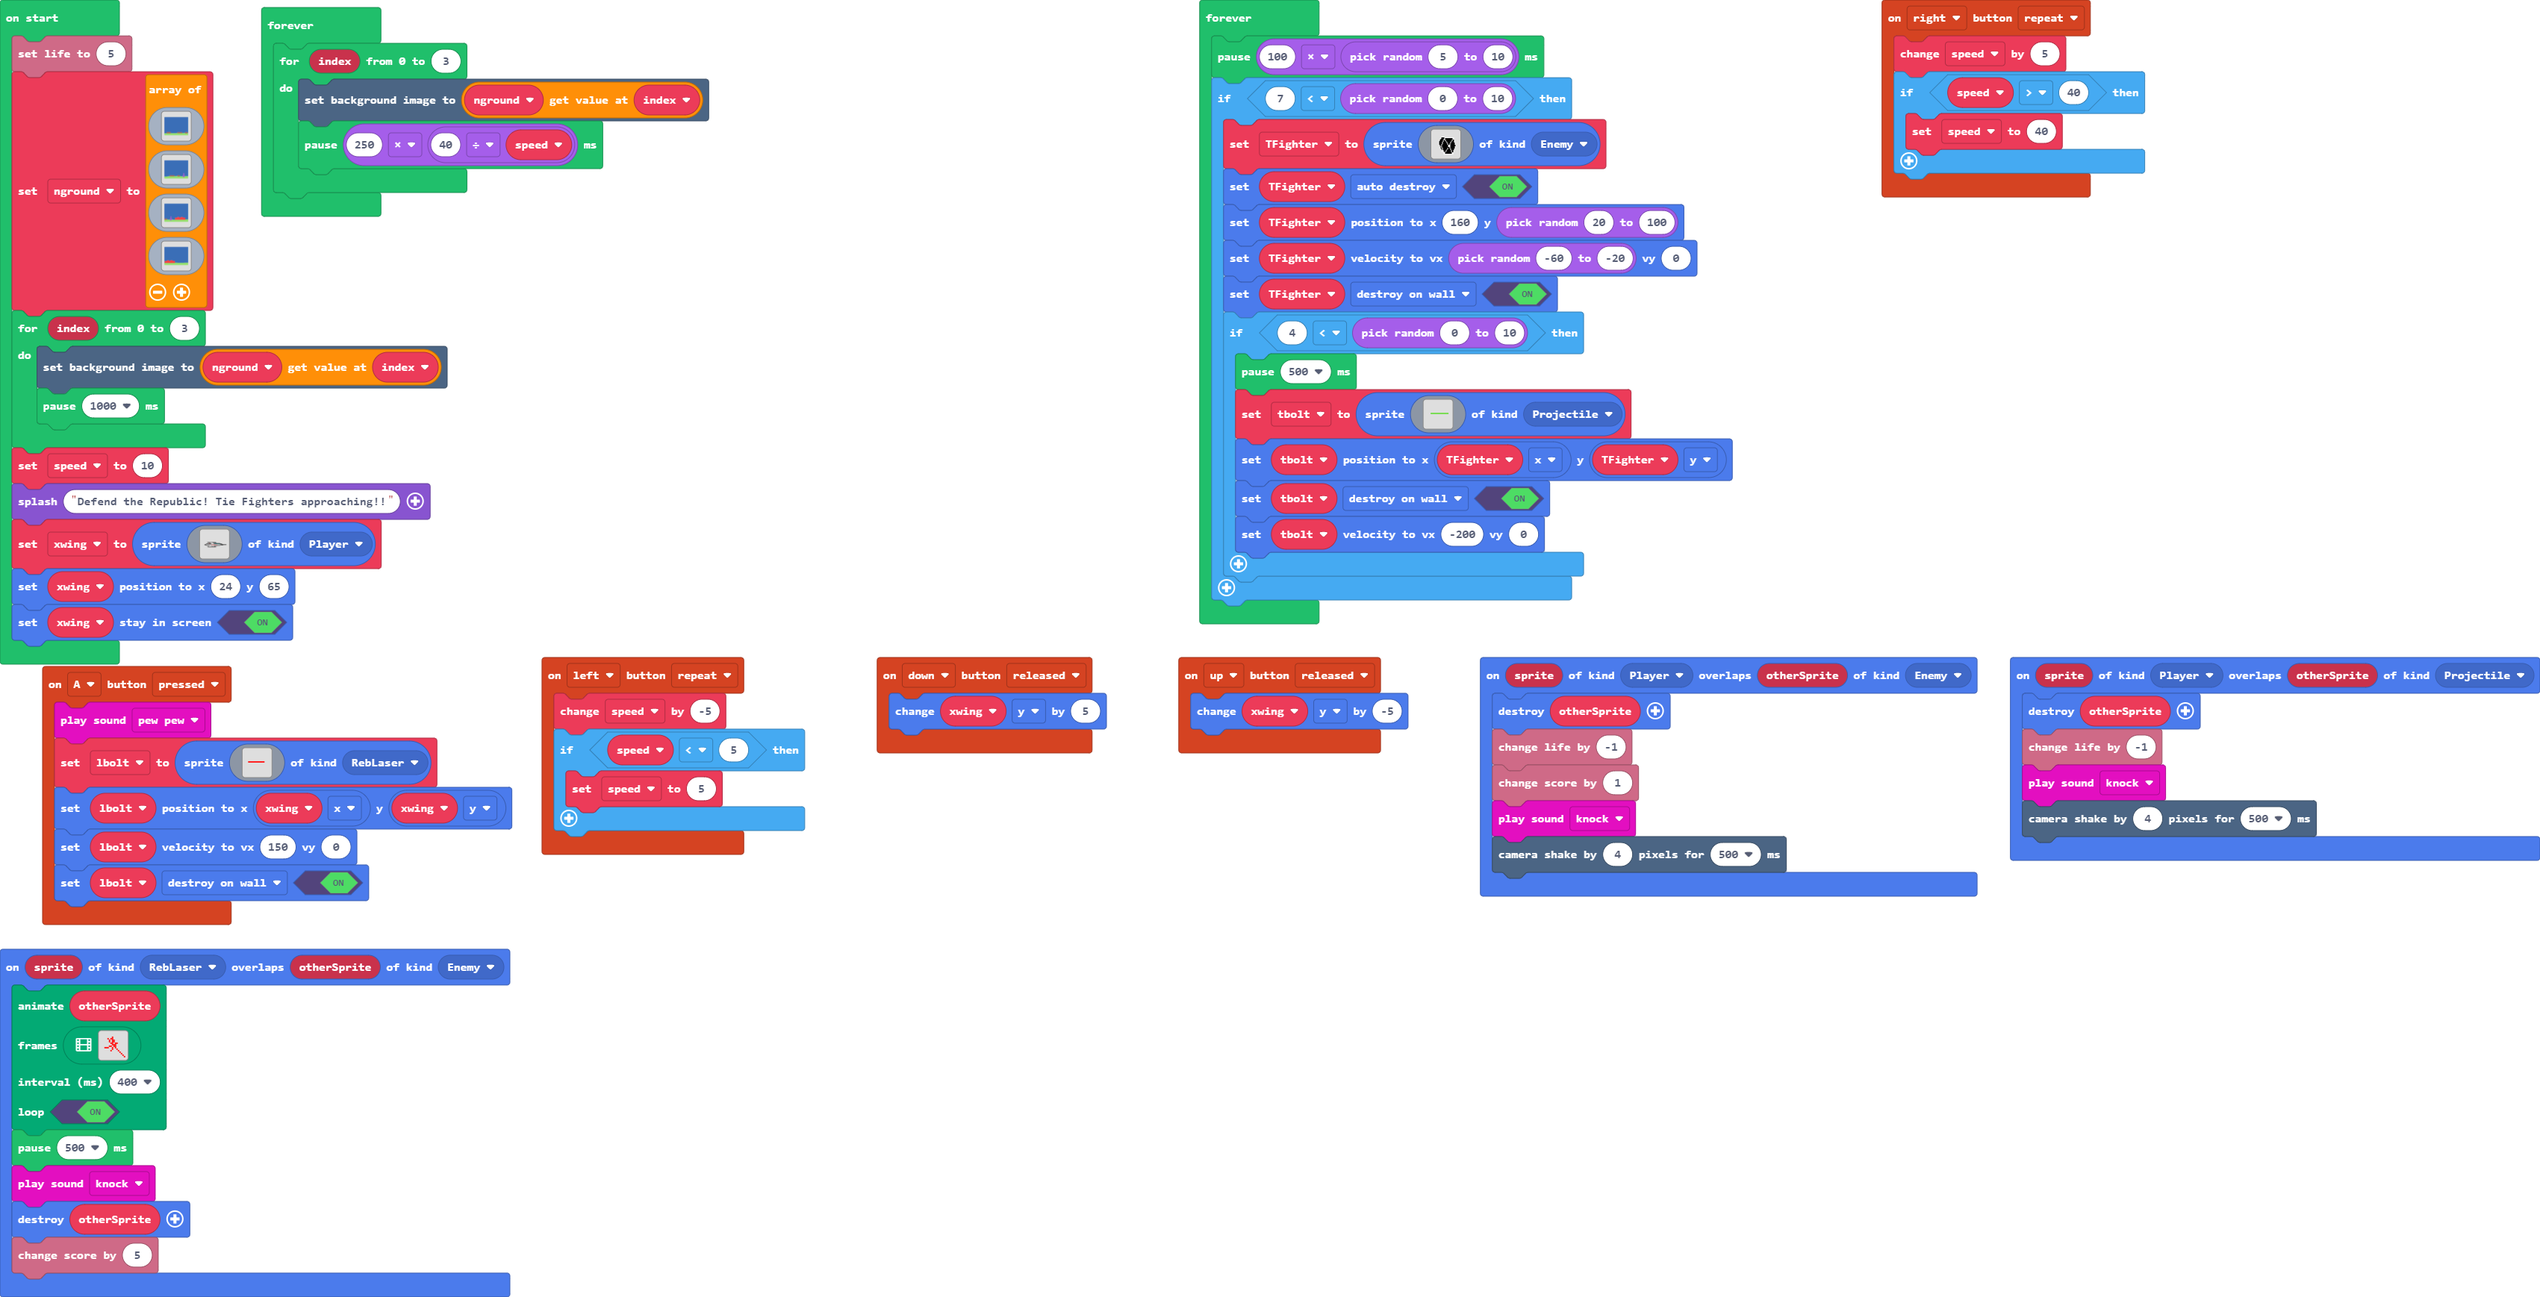
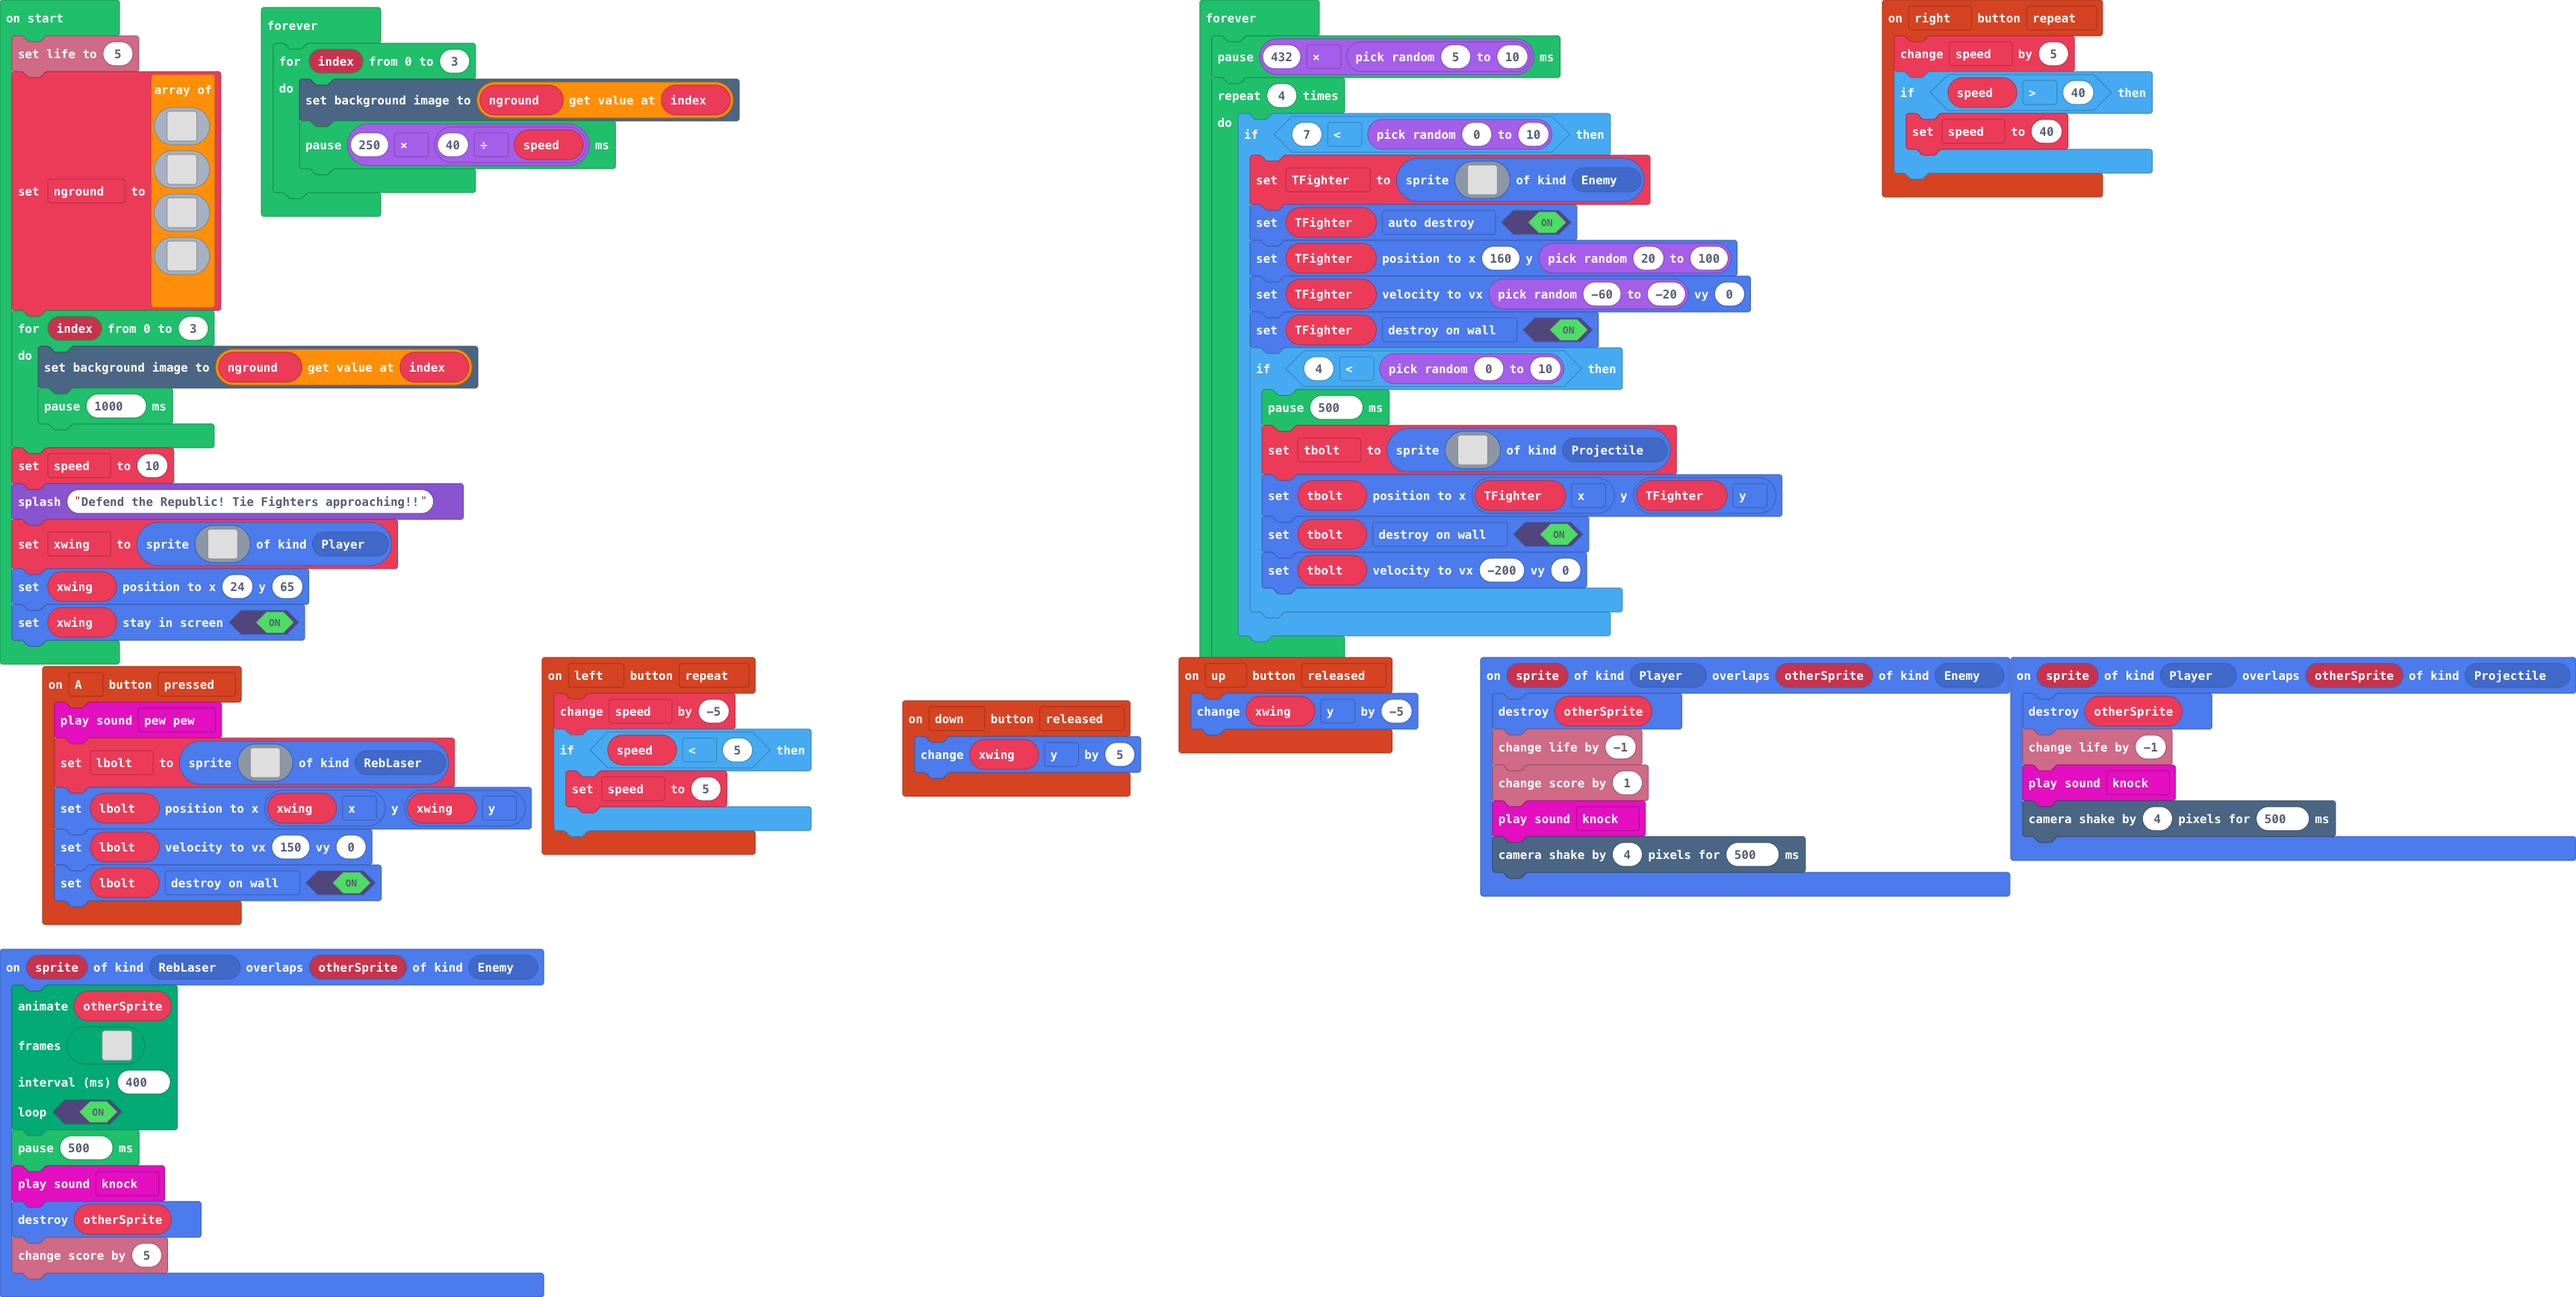
Update main.blocks, main.ts

diff --git a/main.ts b/main.ts
@@ -80,19 +80,21 @@ forever(function () {
     }
 })
 forever(function () {
-    pause(100 * randint(5, 10))
-    if (7 < randint(0, 10)) {
-        TFighter = sprites.create(assets.image`Tie`, SpriteKind.Enemy)
-        TFighter.setFlag(SpriteFlag.AutoDestroy, true)
-        TFighter.setPosition(160, randint(20, 100))
-        TFighter.setVelocity(randint(-60, -20), 0)
-        TFighter.setFlag(SpriteFlag.DestroyOnWall, true)
-        if (4 < randint(0, 10)) {
-            pause(500)
-            tbolt = sprites.create(assets.image`tie-laser`, SpriteKind.Projectile)
-            tbolt.setPosition(TFighter.x, TFighter.y)
-            tbolt.setFlag(SpriteFlag.DestroyOnWall, true)
-            tbolt.setVelocity(-200, 0)
+    pause(432 * randint(5, 10))
+    for (let index = 0; index < 4; index++) {
+        if (7 < randint(0, 10)) {
+            TFighter = sprites.create(assets.image`Tie`, SpriteKind.Enemy)
+            TFighter.setFlag(SpriteFlag.AutoDestroy, true)
+            TFighter.setPosition(160, randint(20, 100))
+            TFighter.setVelocity(randint(-60, -20), 0)
+            TFighter.setFlag(SpriteFlag.DestroyOnWall, true)
+            if (4 < randint(0, 10)) {
+                pause(500)
+                tbolt = sprites.create(assets.image`tie-laser`, SpriteKind.Projectile)
+                tbolt.setPosition(TFighter.x, TFighter.y)
+                tbolt.setFlag(SpriteFlag.DestroyOnWall, true)
+                tbolt.setVelocity(-200, 0)
+            }
         }
     }
 })
